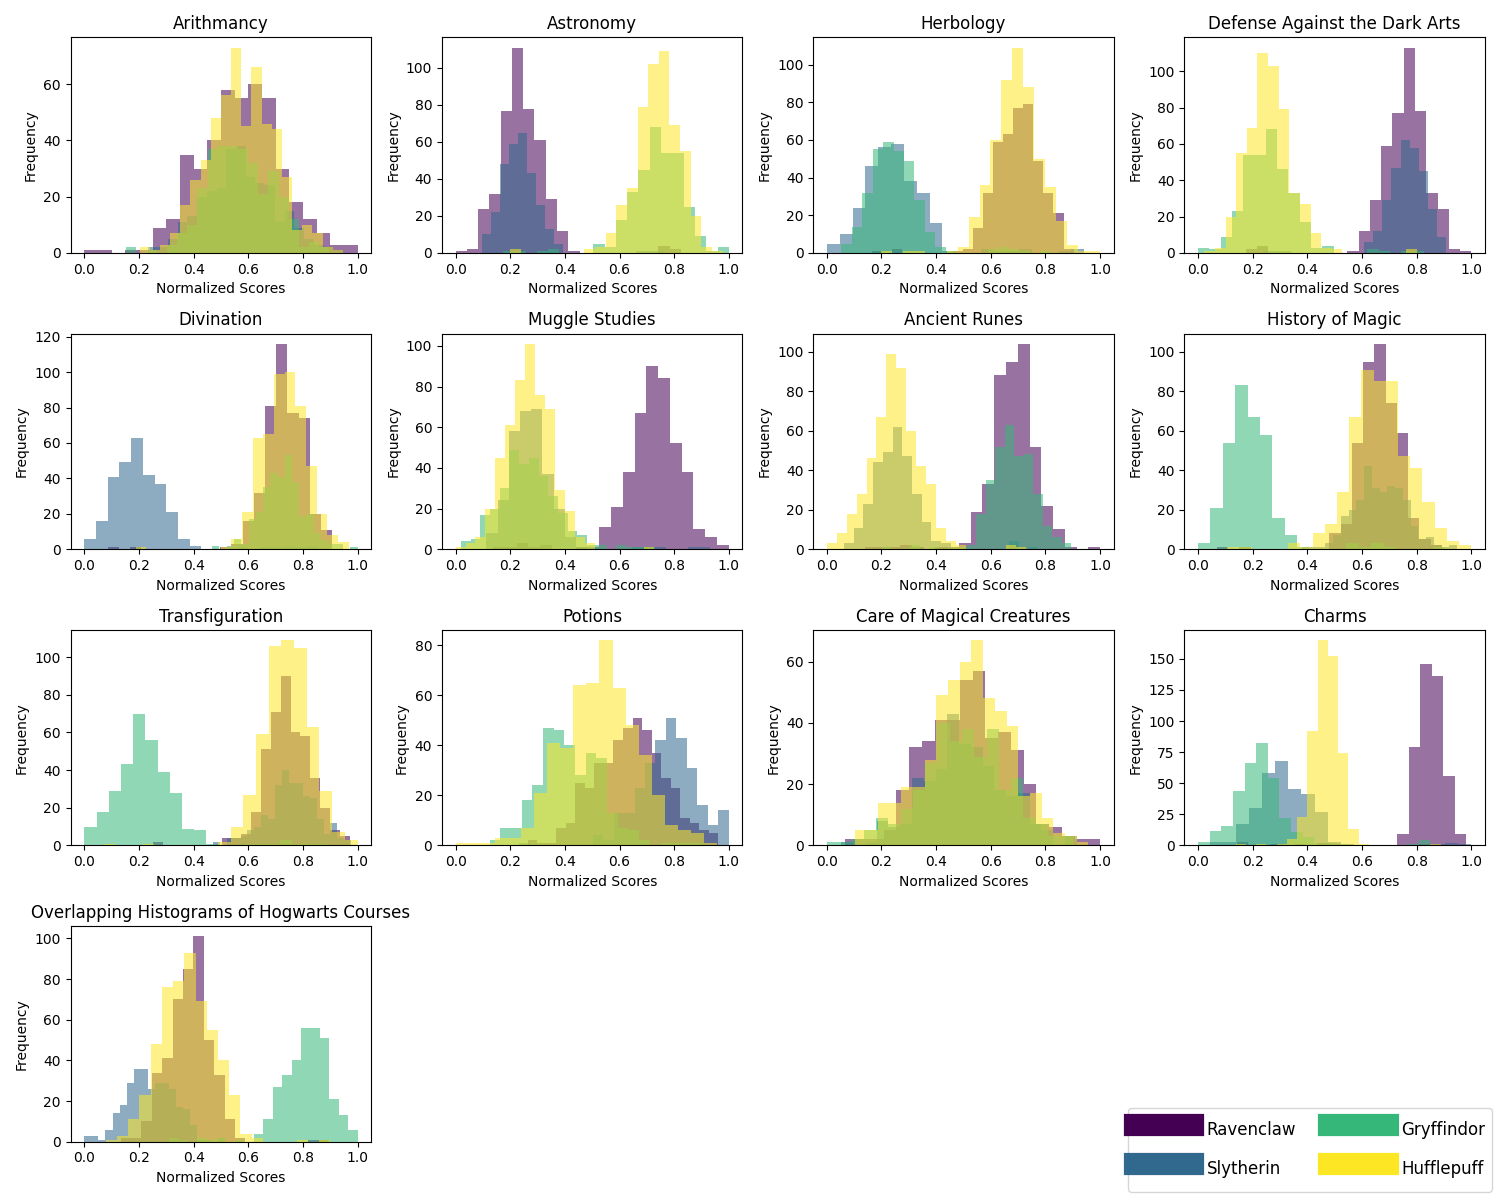
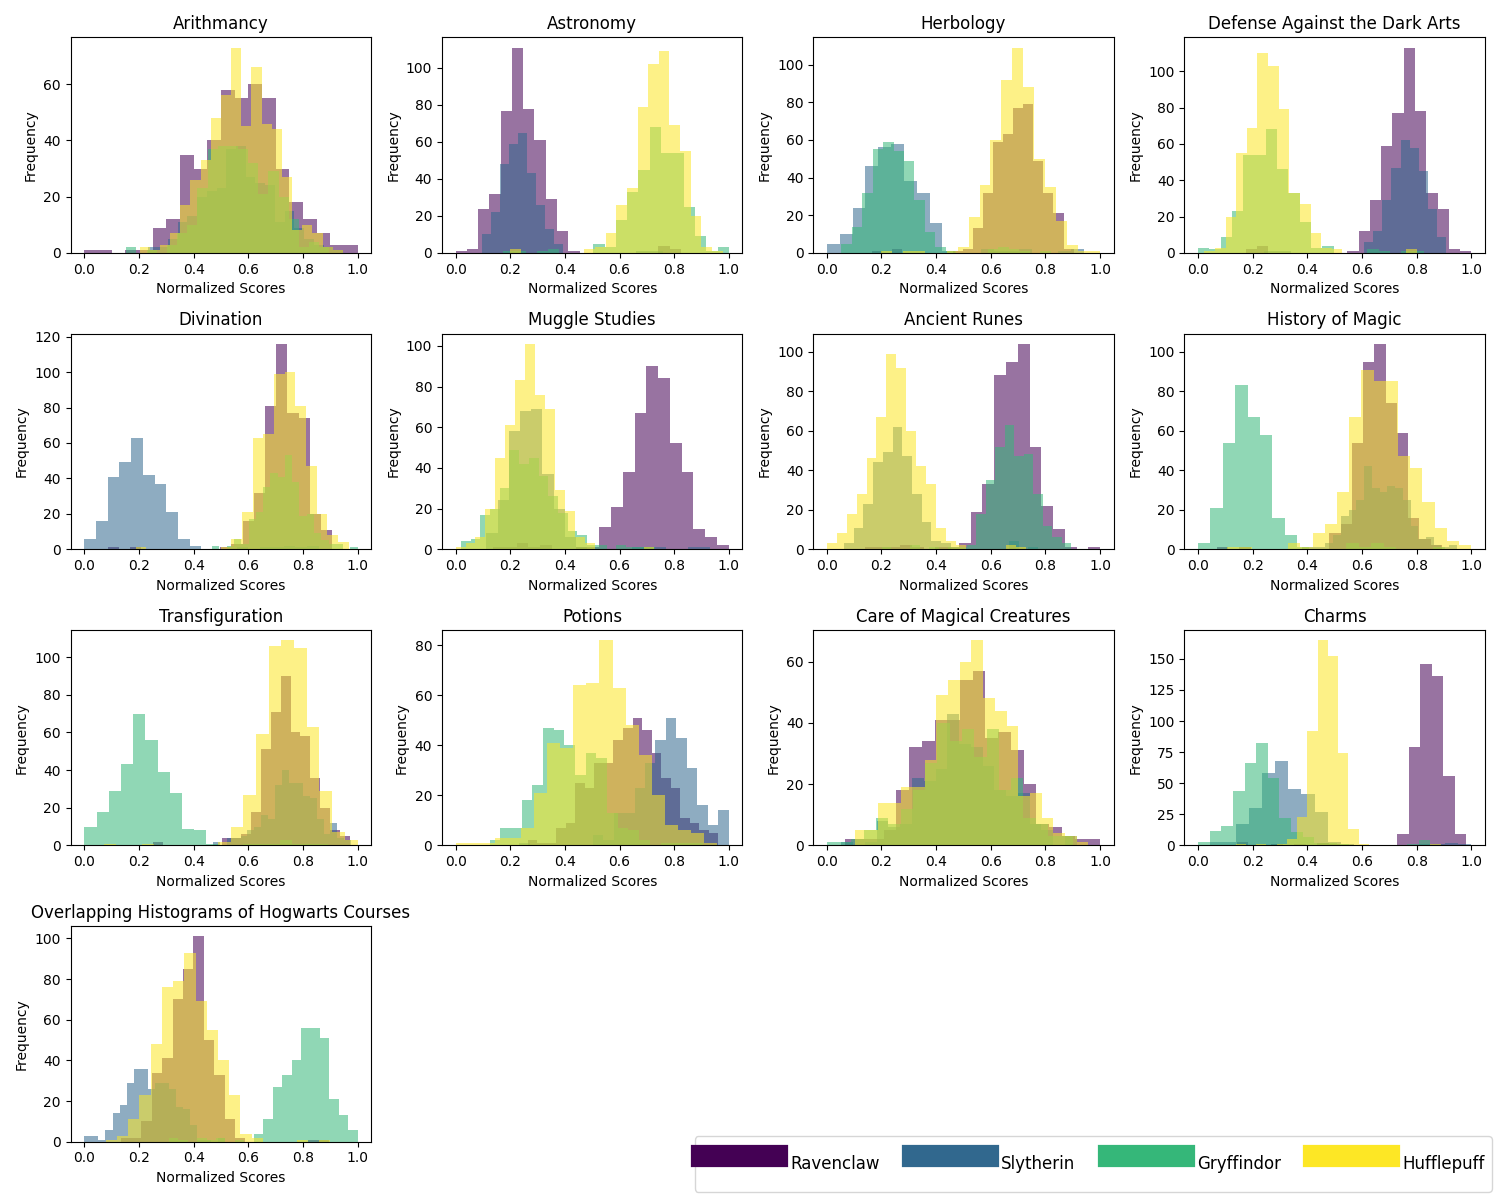
Winner found

Changed region(s): [[0.46, 0.925, 1.0, 0.9867]]

diff --git a/ex02/histogram.py b/ex02/histogram.py
@@ -53,7 +53,7 @@ def display_all(courses, data_of_houses):
 
 	for i, course in enumerate(courses):
 		for cnt, data_of_a_house in enumerate(data_of_houses):
-			axs[i].hist(data_of_a_house[course], bins=21, alpha=0.55, color=colors[cnt])
+			axs[i].hist(data_of_a_house[course], bins=20, alpha=0.55, color=colors[cnt])
 		axs[i].set_title(course)
 		axs[i].set_xlabel('Normalized Scores')
 		axs[i].set_ylabel('Frequency')
@@ -67,17 +67,42 @@ def display_all(courses, data_of_houses):
 					Line2D([0], [1], color=colors[3], lw=16	)]
 	
 	fig.legend(custom_lines, ['Ravenclaw', 'Slytherin', 'Gryffindor', 'Hufflepuff'],\
-				fontsize='large', loc='lower right', ncol=2, bbox_to_anchor=(1, 0),\
-				handlelength=3.5, handleheight=2.5)
+				fontsize='large', loc='lower right', ncol=20, bbox_to_anchor=(1, 0),\
+				handlelength=4.5, handleheight=3.5)
 
 	plt.tight_layout()
 	plt.title('Overlapping Histograms of Hogwarts Courses')
 	plt.savefig('/app/ex02/histograms.png')
 
 
-def display_winner(courses, data_of_houses):
-	print(np.linspace(0, 1, 21).__class__)
-
+def display_winner(courses, data_of_houses):		
+	
+	interval_percentage = {}
+	
+	for course in courses:
+		interval_percentage[course] = [100] * 21
+		for data_of_house in data_of_houses:
+			interval = [0] * 21
+			student_total = 0
+			for cnt, each_score in enumerate(data_of_house[course]):
+				if not np.isnan(each_score):
+					interval[int(each_score * 20)] += 1
+					student_total += 1
+			for cnt in range(21):
+				if interval[cnt] / student_total * 100 < (interval_percentage[course])[cnt]:
+					(interval_percentage[course])[cnt] = interval[cnt] / student_total * 100
+	max_percentage = 0
+	winner = ''
+	for course in interval_percentage:
+		print(sum(interval_percentage[course]))
+		print(course)
+		print()
+		if sum(interval_percentage[course]) > max_percentage:
+			winner = course
+			max_percentage = sum(interval_percentage[course])
+	print("Winner:", winner)
+	print("Max_percentage:", max_percentage)
+	
 
 def main() -> None:
 	try:
@@ -85,7 +110,7 @@ def main() -> None:
 		courses = generate_courses()
 		normalize_score(data, courses)
 		data_of_houses = get_data_of_houses(data)
-		# display_all(courses, data_of_houses)
+		display_all(courses, data_of_houses)
 		display_winner(courses, data_of_houses)
 
 
